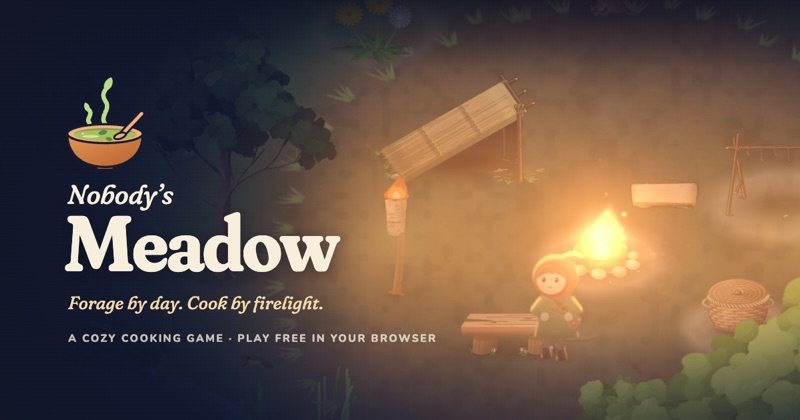
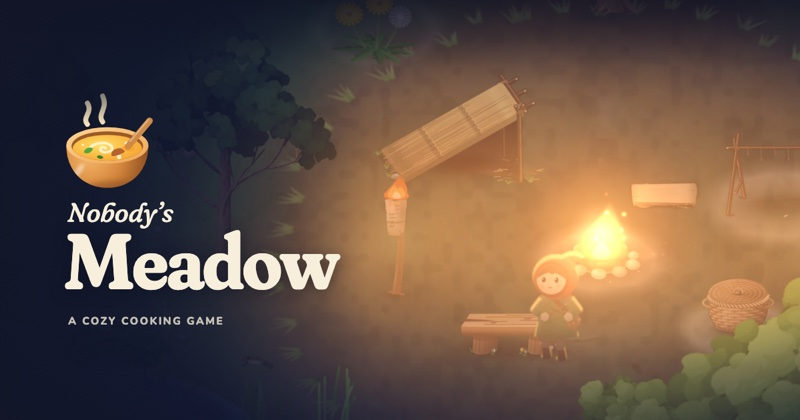
The meadow's card with its redrawn bowl
The cover is the game's new share picture (the bowl from a little above, golden soup, no slogan), and the link
preview is redrawn with it (og.jpg?v=3).

Changed region(s): [[0.0625, 0.1857, 0.5312, 0.8357]]

diff --git a/index.html b/index.html
@@ -17,13 +17,13 @@
 <meta property="og:title" content="cryptoler">
 <meta property="og:description" content="Nobody's Meadow, Noctiluca, The Eye and Ödemark: four things made by cryptoler.">
 <meta property="og:url" content="https://www.cryptoler.net/">
-<meta property="og:image" content="https://www.cryptoler.net/og.jpg?v=2">
+<meta property="og:image" content="https://www.cryptoler.net/og.jpg?v=3">
 <meta property="og:image:type" content="image/jpeg">
 <meta property="og:image:width" content="1200">
 <meta property="og:image:height" content="630">
 <meta property="og:image:alt" content="Four cards: Nobody's Meadow, Noctiluca, The Eye and Ödemark, with cryptoler in the middle">
 <meta name="twitter:card" content="summary_large_image">
-<meta name="twitter:image" content="https://www.cryptoler.net/og.jpg?v=2">
+<meta name="twitter:image" content="https://www.cryptoler.net/og.jpg?v=3">
 <link rel="preconnect" href="https://fonts.googleapis.com">
 <link rel="preconnect" href="https://fonts.gstatic.com" crossorigin>
 <!-- Only the two faces the covers need: The Eye's Cinzel and Ödemark's IM Fell. The rest is the system's. -->
